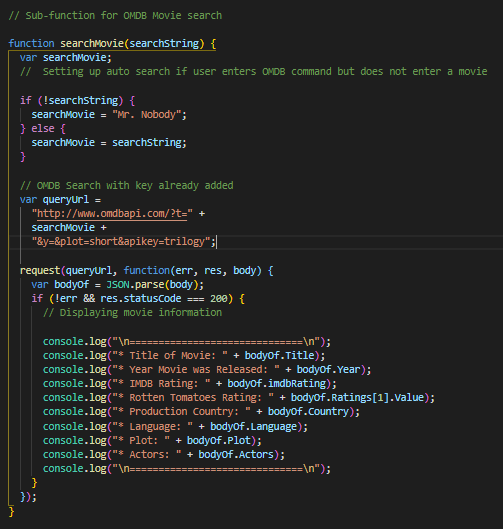
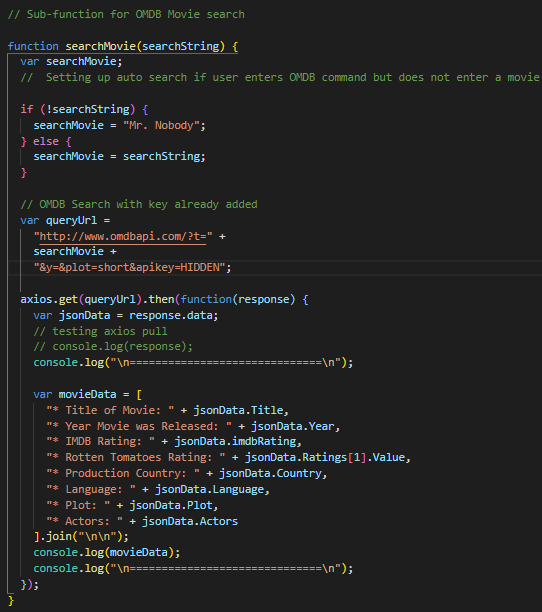
updated screen shots, fixed axios request for bandsintowwn and OMDB database

Changed region(s): [[0.0, 0.0, 1.0, 0.9981]]

diff --git a/liri.js b/liri.js
@@ -3,13 +3,16 @@ require("dotenv").config();
 // code required to import the `keys.js` file and store it in a variable
 var keys = require("./keys.js");
 
+// required to axios pull search data
+var axios = require("axios");
+
 // required to get data from API search
 var request = require("request");
 
 // required to access the random.txt file
 var fs = require("fs");
 
-// required to access momeny
+// required to access moment
 var moment = require("moment");
 
 // Initiate Spotify API and access keys
@@ -48,42 +51,39 @@ function runLiri() {
 // Search bandsintown API (Sub-function)
 
 function bandSearch(searchString) {
-  if (action === "concert-this") {
-    var artist = "";
-    for (var i = 3; i < process.argv.length; i++) {
-      artist += process.argv[i];
-    }
-    console.log(artist);
-  } else {
-    artist = searchString;
-  }
   // queryURL that will run with id already added
   var queryUrl =
     "https://rest.bandsintown.com/artists/" +
-    artist +
+    searchString +
     "/events?app_id=codingbootcamp";
 
-  request(queryUrl, function(error, response, body) {
-    if (!error && response.statusCode === 200) {
-      var JS = JSON.parse(body);
-      for (i = 0; i < JS.length; i++) {
-        // setting up data in proper moment format
-        var dateForm = moment(JS[i].datetime).format("MM/DD/YYYY");
+  axios
+    .get(queryUrl)
+    .then(function(response) {
+      // testing axios pull
+      // console.log(response);
+      var jsonData = response.data;
+      for (var i = 0; i < response.data.length; i++) {
+        var dateForm = moment(jsonData[i].datetime).format("MM/DD/YYYY");
         console.log("\n==============================\n");
-        // Displaying venue and concert date information
-        console.log("* Name of venue: " + JS[i].venue.name);
-        console.log("* Venue City: " + JS[i].venue.city);
 
-        if (JS[i].venue.region !== "") {
-          console.log("* Venue State: " + JS[i].venue.region);
-        }
-
-        console.log("* Venue Country: " + JS[i].venue.country);
-        console.log("* Date of the Event: " + dateForm);
+        var eventResults = [
+          "* Name of Venue: " + jsonData[i].venue.name,
+          "* Venue Location: " +
+            jsonData[i].venue.city +
+            " " +
+            jsonData[i].venue.region +
+            " " +
+            jsonData[i].venue.country,
+          "* Date of Event: " + dateForm
+        ].join("\n\n");
+        console.log(eventResults);
         console.log("\n==============================\n");
       }
-    }
-  });
+    })
+    .catch(function(error) {
+      console.log(error);
+    });
 }
 
 // Sub-function for Spotify Search
@@ -139,22 +139,24 @@ function searchMovie(searchString) {
     searchMovie +
     "&y=&plot=short&apikey=trilogy";
 
-  request(queryUrl, function(err, res, body) {
-    var bodyOf = JSON.parse(body);
-    if (!err && res.statusCode === 200) {
-      // Displaying movie information
+  axios.get(queryUrl).then(function(response) {
+    var jsonData = response.data;
+    // testing axios pull
+    // console.log(response);
+    console.log("\n==============================\n");
 
-      console.log("\n==============================\n");
-      console.log("* Title of Movie: " + bodyOf.Title);
-      console.log("* Year Movie was Released: " + bodyOf.Year);
-      console.log("* IMDB Rating: " + bodyOf.imdbRating);
-      console.log("* Rotten Tomatoes Rating: " + bodyOf.Ratings[1].Value);
-      console.log("* Production Country: " + bodyOf.Country);
-      console.log("* Language: " + bodyOf.Language);
-      console.log("* Plot: " + bodyOf.Plot);
-      console.log("* Actors: " + bodyOf.Actors);
-      console.log("\n==============================\n");
-    }
+    var movieData = [
+      "* Title of Movie: " + jsonData.Title,
+      "* Year Movie was Released: " + jsonData.Year,
+      "* IMDB Rating: " + jsonData.imdbRating,
+      "* Rotten Tomatoes Rating: " + jsonData.Ratings[1].Value,
+      "* Production Country: " + jsonData.Country,
+      "* Language: " + jsonData.Language,
+      "* Plot: " + jsonData.Plot,
+      "* Actors: " + jsonData.Actors
+    ].join("\n\n");
+    console.log(movieData);
+    console.log("\n==============================\n");
   });
 }
 
